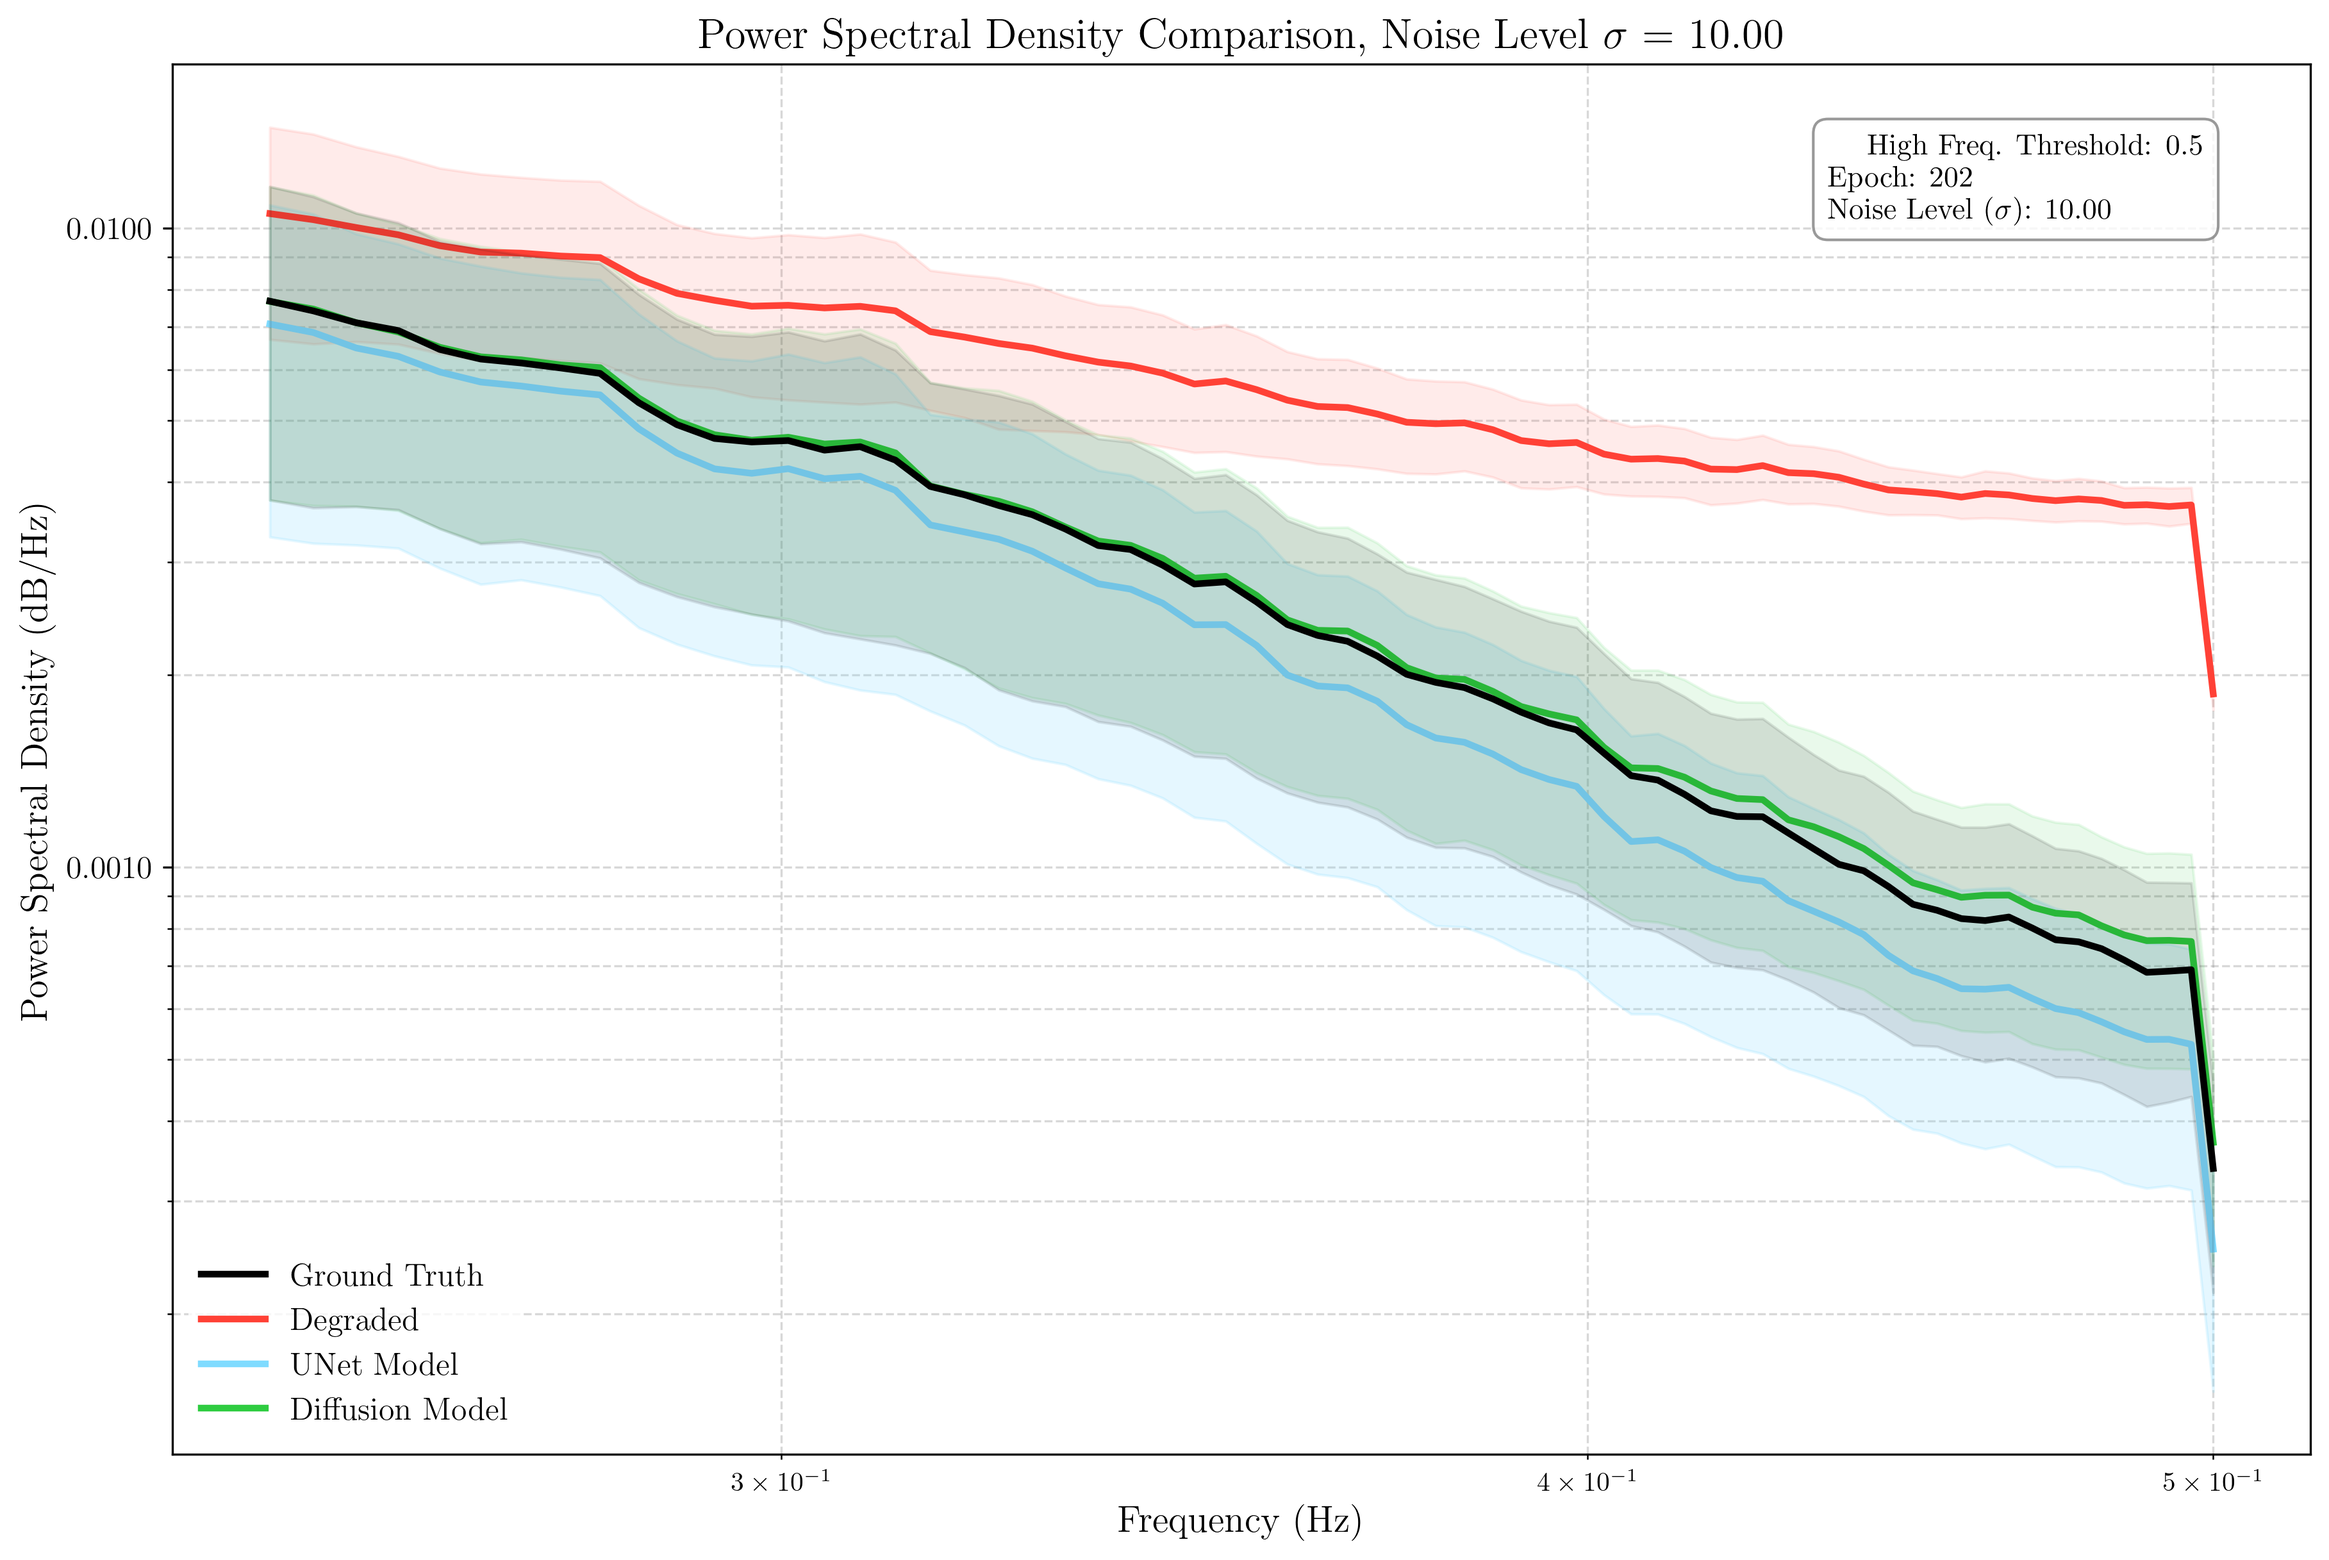
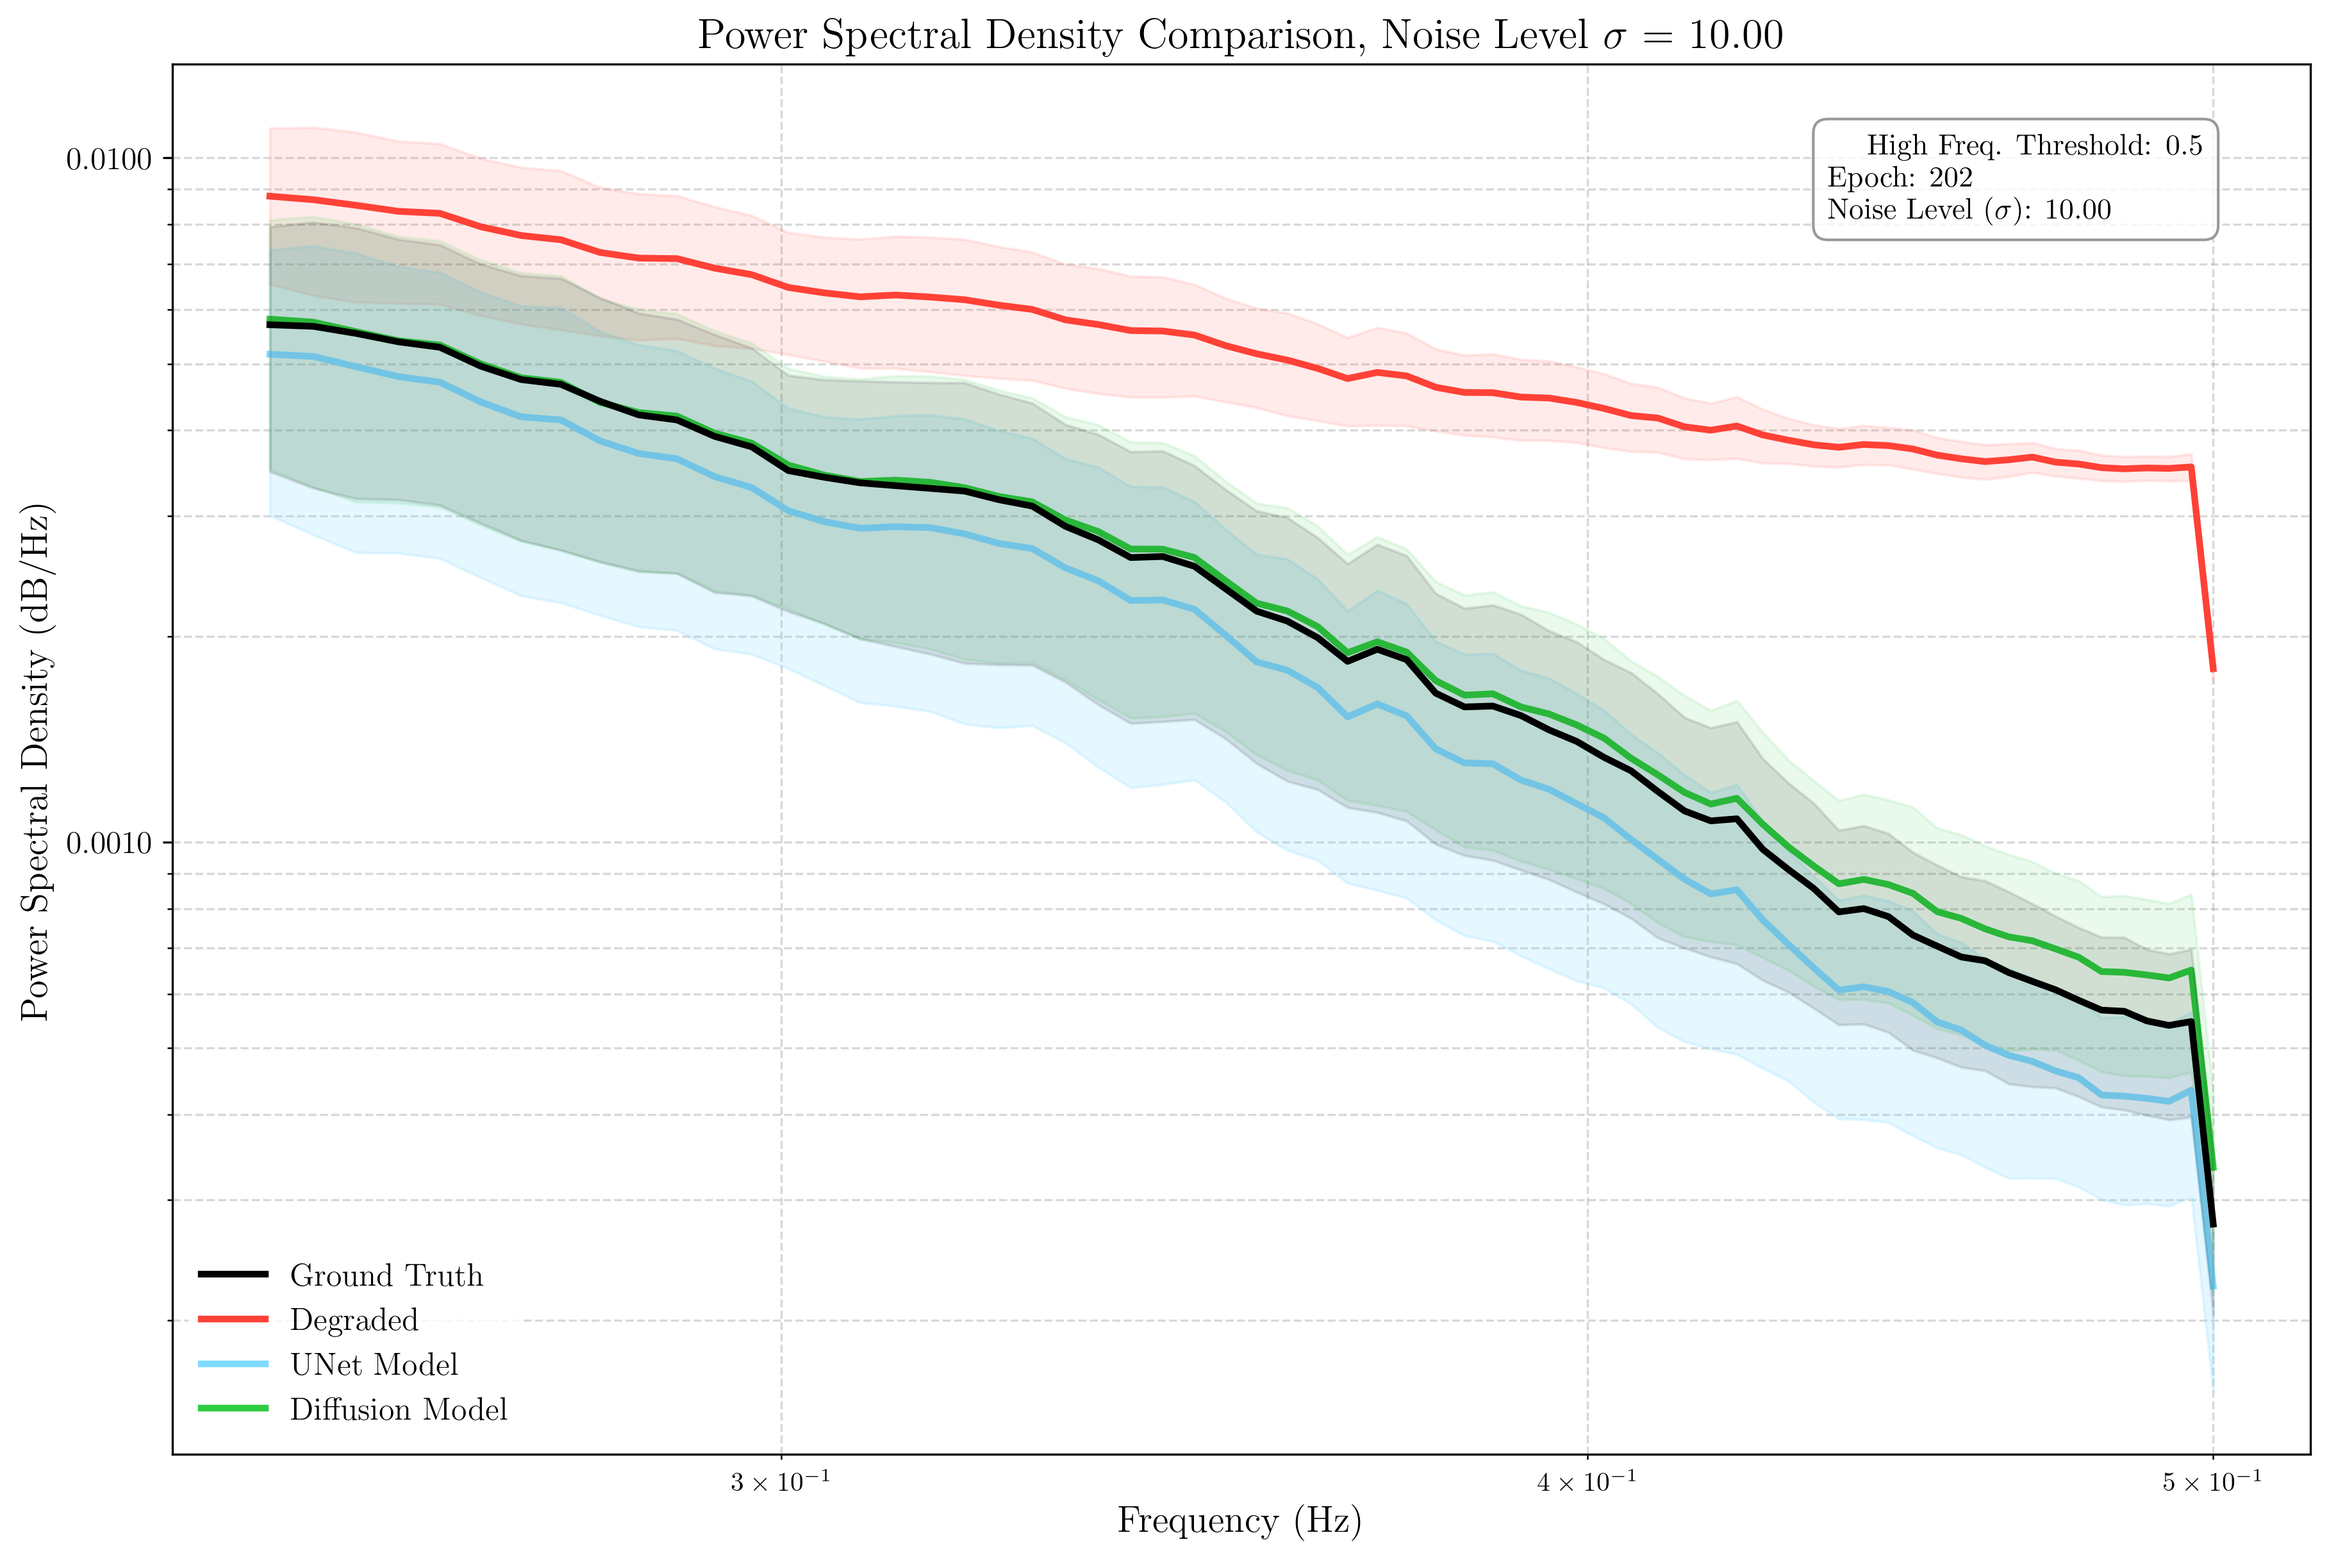
Refactor evaluate_model.py to update dataset percentage in data loading

diff --git a/evaluate_Unet_diffusion/plot.py b/evaluate_Unet_diffusion/plot.py
@@ -5,6 +5,7 @@ from scipy.signal import welch
 from matplotlib.colors import LinearSegmentedColormap
 from matplotlib.ticker import ScalarFormatter
 from mpl_toolkits.axes_grid1 import ImageGrid
+from scipy.spatial import ConvexHull
 
 # Use the same palette for all plots (pale colors)
 pale_red = '#FF4136'
@@ -387,11 +388,6 @@ def save_inference_time_plot(inference_times, save_dir):
     plt.close()
 
 def generate_comparison_plot(metrics, epochs, save_dir, use_bm3d=False):
-    import numpy as np
-    import matplotlib.pyplot as plt
-    from matplotlib.colors import LinearSegmentedColormap
-    import os
-
     noise_levels = np.array(metrics['noise_level'])
     unique_noise_levels = sorted(np.unique(noise_levels))
     psnr_diffusion = np.array(metrics['psnr_diffusion'])
@@ -426,6 +422,26 @@ def generate_comparison_plot(metrics, epochs, save_dir, use_bm3d=False):
     norm = plt.Normalize(vmin=min(unique_noise_levels), vmax=max(unique_noise_levels))
     sm = plt.cm.ScalarMappable(cmap=cmap, norm=norm)
     sm.set_array([])
+
+    # Prepare data for convex hulls
+    hull_data = {
+        'diffusion': list(zip(avg_lpips_diffusion, avg_psnr_diffusion)),
+        'unet': list(zip(avg_lpips_unet, avg_psnr_unet))
+    }
+    if use_bm3d:
+        hull_data['bm3d'] = list(zip(avg_lpips_bm3d, avg_psnr_bm3d))
+
+    # Plot convex hulls (zones)
+    for model, points in hull_data.items():
+        if len(points) >= 3:  # Need at least 3 points for a convex hull
+            hull = ConvexHull(points)
+            for simplex in hull.simplices:
+                ax.plot([points[simplex[0]][0], points[simplex[1]][0]],
+                        [points[simplex[0]][1], points[simplex[1]][1]],
+                        color='gray', alpha=0.5, linestyle='--')
+            ax.fill([points[i][0] for i in hull.vertices],
+                    [points[i][1] for i in hull.vertices],
+                    alpha=0.1, label=f'{model.capitalize()} Zone')
 
     # Plot with color gradient and error bars
     edge_color = 'navy'  # Dark blue edge for contrast
@@ -469,7 +485,7 @@ def generate_comparison_plot(metrics, epochs, save_dir, use_bm3d=False):
     ax.text(0.97, 0.9, 'Better PSNR', ha='center', va='center',
             transform=ax.transAxes, fontsize=10, color='gray', rotation=90)
 
-    plt.savefig(os.path.join(save_dir, 'comparison_plot.png'), dpi=300, bbox_inches='tight')
+    plt.savefig(os.path.join(save_dir, 'comparison_plot_with_zones.png'), dpi=300, bbox_inches='tight')
     plt.close(fig)
 
 def save_metrics(metrics, last_epoch, use_bm3d, save_dir):

diff --git a/evaluate_Unet_diffusion/evaluate_model.py b/evaluate_Unet_diffusion/evaluate_model.py
@@ -313,7 +313,7 @@ if __name__ == "__main__":
     train_noise_levels = [10, 20, 30, 40, 50]
     val_noise_levels = [10, 20, 30, 40, 50]
 
-    train_loader, val_loader = load_data(image_folder, batch_size=1, num_workers=8, validation_split=0.5, augment=False, dataset_percentage=0.1, only_validation=False, include_noise_level=True, train_noise_levels=train_noise_levels, val_noise_levels=val_noise_levels, use_rgb=True)
+    train_loader, val_loader = load_data(image_folder, batch_size=1, num_workers=8, validation_split=0.5, augment=False, dataset_percentage=0.01, only_validation=False, include_noise_level=True, train_noise_levels=train_noise_levels, val_noise_levels=val_noise_levels, use_rgb=True)
 
     epochs_to_evaluate = [202]
     diffusion_model_paths = [f"checkpoints/diffusion_RDUnet_model_checkpointed_epoch_{epoch}.pth" for epoch in epochs_to_evaluate]
